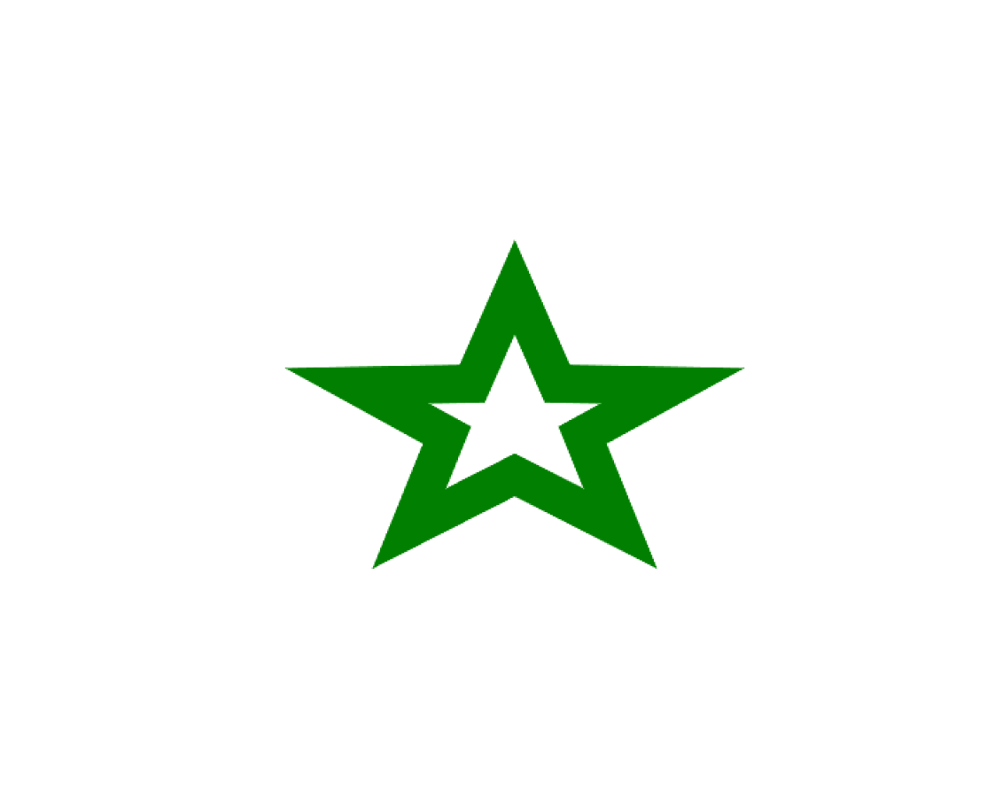
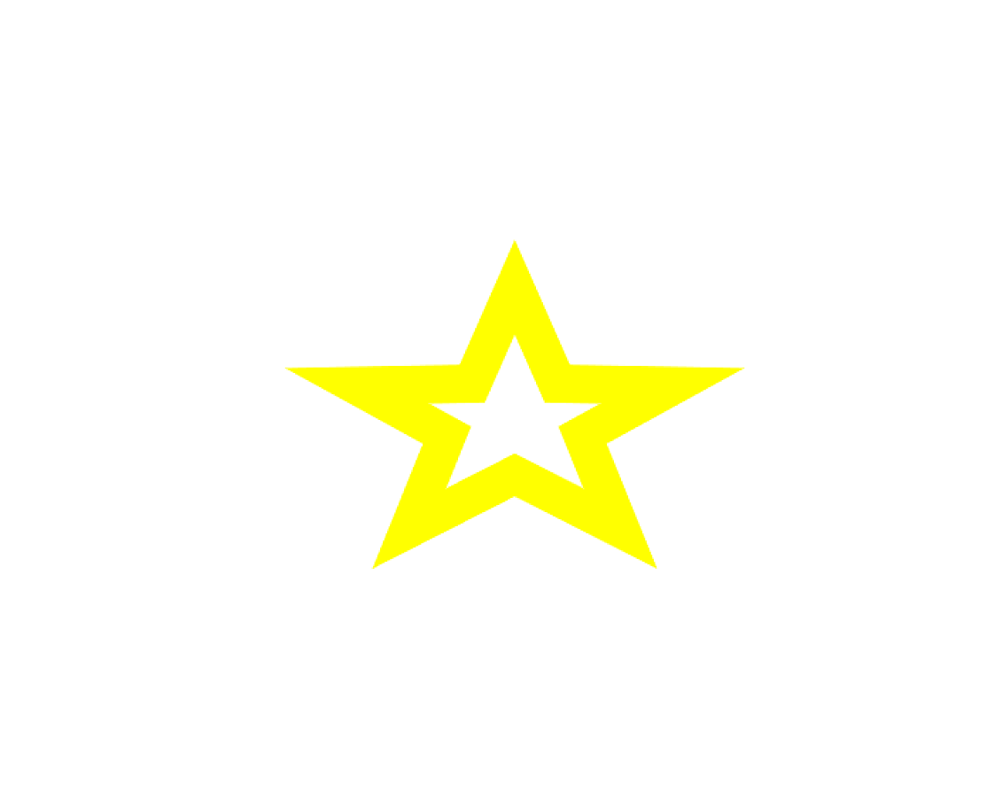
joystick: update images

Changed region(s): [[0.2736, 0.3125, 0.7599, 0.7188]]

diff --git a/Primate_Joystick_Pull/gen_images.py b/Primate_Joystick_Pull/gen_images.py
@@ -1,4 +1,10 @@
 
+from pathlib import Path
+from copy import copy
+import shutil
+
+from PIL import Image
+
 # img: output of pillow Image
 # color: (r, g, b)
 def recolor(img, color, *, two_tone=False):
@@ -13,8 +19,10 @@ def recolor(img, color, *, two_tone=False):
         for y in range(img.size[1]):
             r, g, b, a = data[x, y]
             
-            v = (r + g + b) // 3
+            v = (r + g + b) / 3
             v = 255 - v
+            v *= (255/a if a else 0)
+            v = int(v)
             
             if two_tone and v > 0:
                 v = 255
@@ -34,14 +42,17 @@ def gen_images():
     src = Path('./TaskImages_Joystick')
     
     prep_path = out_path / 'prepare.png'
-    img = Image.open(src / 'yPrepare.png')
+    # img = Image.open(src / 'yPrepare.png')
+    img = Image.open(src / 'yPrepare_hollow.png')
     img.thumbnail(CANVAS_SIZE)
-    img = recolor(img, (0, SAT, 0))
+    # img = recolor(img, (0, SAT, 0))
+    img = recolor(img, (114, 114, 114))
     img.save(prep_path, 'PNG')
     
     img = Image.open(src / 'eBlank.png')
     img.thumbnail(CANVAS_SIZE)
-    cimg = recolor(img, (0, SAT, 0), two_tone=True)
+    # cimg = recolor(img, (0, SAT, 0), two_tone=True)
+    cimg = recolor(img, (57, 255, 20), two_tone=True)
     p = out_path / 'box_green.png'
     cimg.save(p, 'PNG')
     
@@ -57,7 +68,8 @@ def gen_images():
     red_dir = out_path / 'red'
     white_dir = out_path / 'white'
     colors = [
-        (green_dir, (0, SAT, 0)),
+        # (green_dir, (0, SAT, 0)),
+        (green_dir, (255, 255, 0)),
         (red_dir, (SAT, 0, 0)),
         (white_dir, (SAT, SAT, SAT)),
     ]
@@ -137,3 +149,6 @@ def gen_images():
     #     out_path / 'white/bRectangle.png',
     #     out_path / 'white/monkey3.png',
     # )
+
+if __name__ == '__main__':
+    gen_images()
